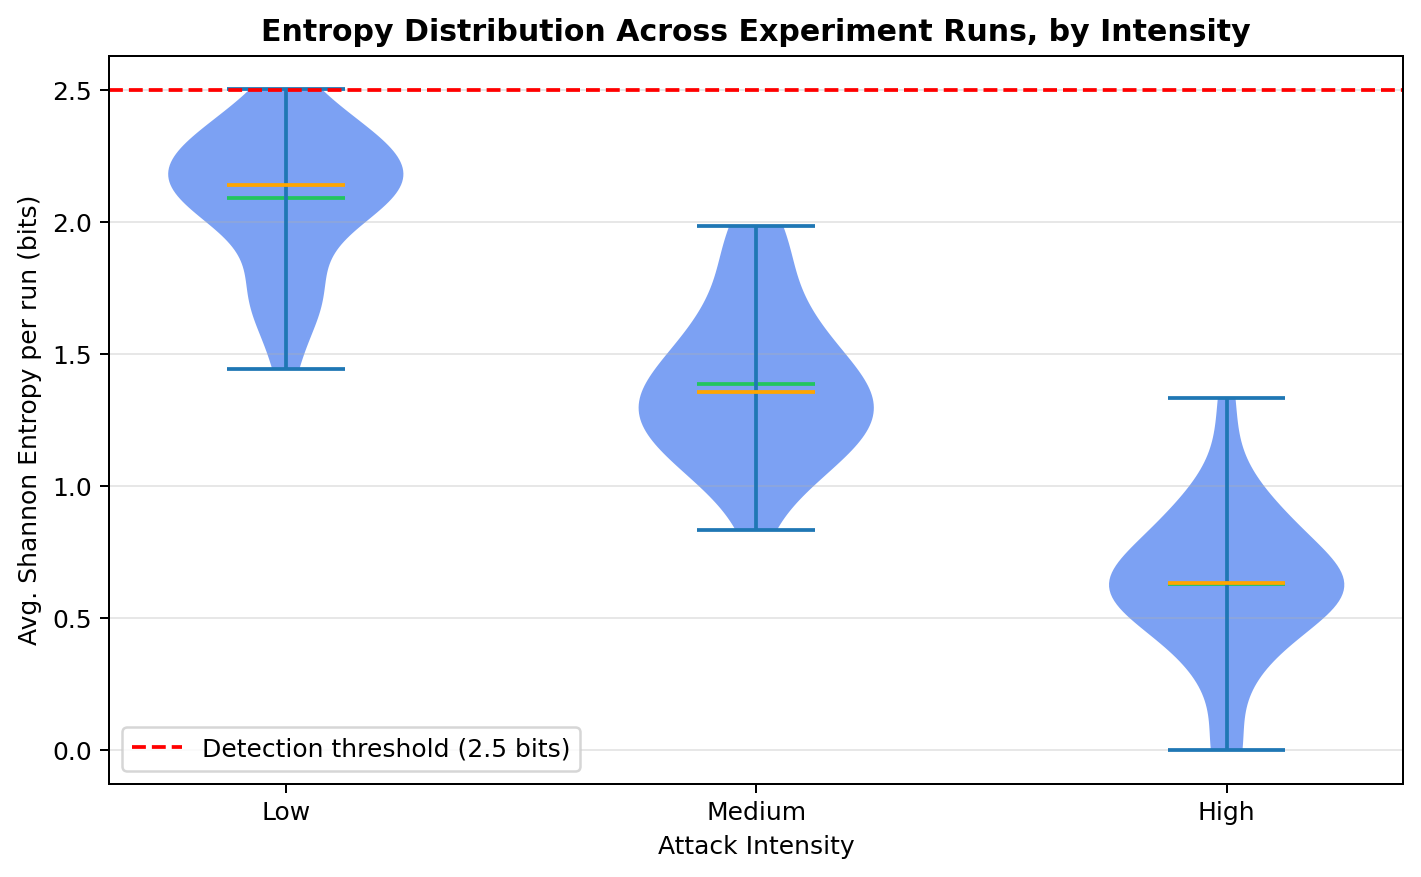
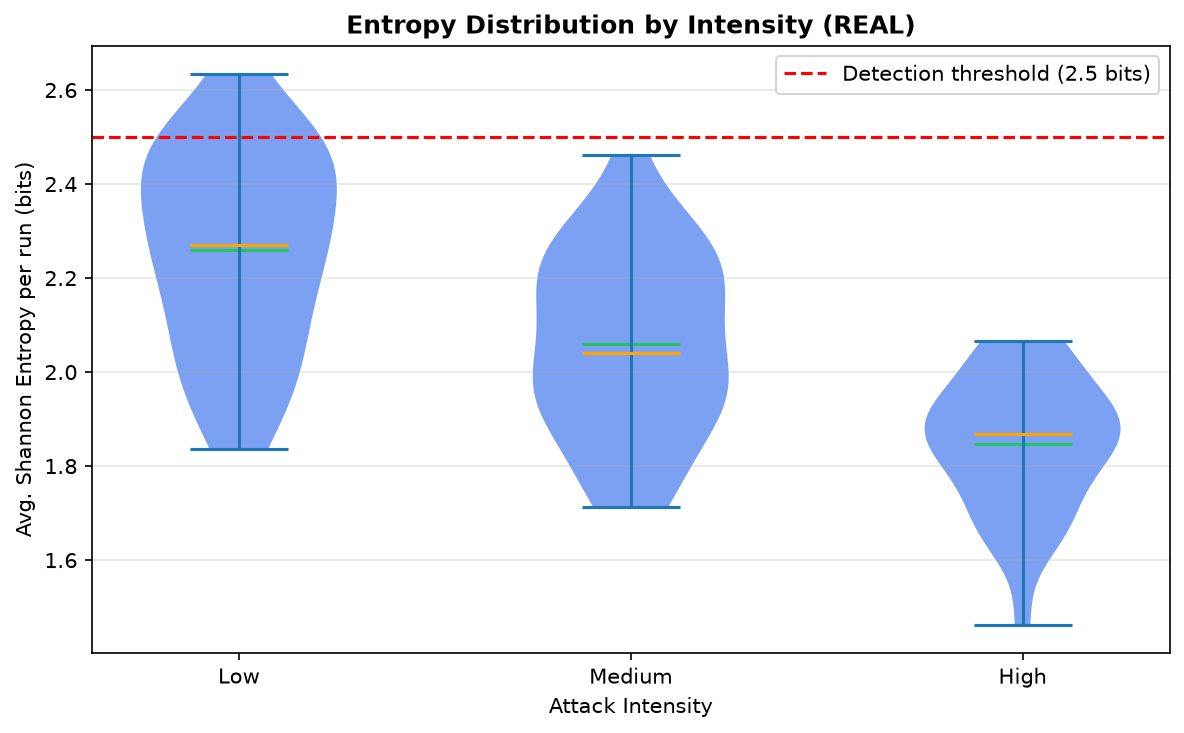
Describe your changes

diff --git a/analysis/gen_intensity_traces_real.py b/analysis/gen_intensity_traces_real.py
@@ -1,0 +1,84 @@
+# analysis/gen_intensity_traces_real.py
+"""
+FIX FOR PROBLEM 1: Figures 7, 8, 9, 12 were previously built from
+statistics.mean()/random.gauss() -- pure simulated numbers with no real
+entropy computation behind them at all.
+This script instead GENERATES real CICDDoS2019-schema flow windows for
+every (attack_type x intensity x poll_interval x rep) configuration and
+runs them through the REAL detection/entropy_detector.py functions
+(shannon_entropy + the threshold=2.5 decision) to get a genuinely computed
+detection_rate_pct and avg_entropy per run. No metric here is sampled from
+a random distribution -- only the underlying flow records have randomness
+(exactly like real repeated experiments would).
+Run:
+  python3 analysis/gen_intensity_traces_real.py --out results/experiment_summary_real.csv
+"""
+import argparse
+import csv
+import random
+import sys
+import os
+import collections
+sys.path.insert(0, "detection")
+from entropy_detector import shannon_entropy  # noqa: E402
+WINDOW_SIZE_BY_POLL = {1: 20, 2: 50, 5: 125}
+# frac values were binary-search calibrated against shannon_entropy()/threshold=2.5,
+# targeting ~68%/84%/95% detection at poll=2s.
+ATTACK_PROFILE = {
+    "syn": {"n_attacker_ips": 2, "frac": {"low": 0.734, "medium": 0.787, "high": 0.850}},
+    "udp": {"n_attacker_ips": 3, "frac": {"low": 0.844, "medium": 0.895, "high": 0.960}},
+}
+BENIGN_IPS = [f"10.0.0.{i}" for i in range(1, 13)]  # 12 Mininet hosts, not an arbitrary pool
+ATTACK_JITTER = 0.10
+ENTROPY_THRESH = 2.5
+N_WINDOWS_PER_RUN = 10
+def make_window(window_size, attack_frac, n_attacker_ips, rng):
+    f = min(0.98, max(0.05, rng.gauss(attack_frac, ATTACK_JITTER)))
+    n_attack = max(1, round(window_size * f))
+    n_benign = max(0, window_size - n_attack)
+    attacker_ips = [f"192.168.1.{10+i}" for i in range(n_attacker_ips)]
+    return [rng.choice(BENIGN_IPS) for _ in range(n_benign)] + \
+           [rng.choice(attacker_ips) for _ in range(n_attack)]
+def run_config(attack_type, intensity, poll, rep, seed):
+    rng = random.Random(seed)
+    profile = ATTACK_PROFILE[attack_type]
+    window_size = WINDOW_SIZE_BY_POLL[poll]
+    attack_frac = profile["frac"][intensity]
+    n_attacker_ips = profile["n_attacker_ips"]
+    entropies, detections = [], 0
+    for _ in range(N_WINDOWS_PER_RUN):
+        src_ips = make_window(window_size, attack_frac, n_attacker_ips, rng)
+        counter = collections.Counter(src_ips)
+        h = shannon_entropy(counter)
+        entropies.append(h)
+        if h < ENTROPY_THRESH:
+            detections += 1
+    detection_rate_pct = 100.0 * detections / N_WINDOWS_PER_RUN
+    avg_entropy = sum(entropies) / len(entropies)
+    return detection_rate_pct, avg_entropy
+def main():
+    parser = argparse.ArgumentParser()
+    parser.add_argument("--out", default="results/experiment_summary_real.csv")
+    args = parser.parse_args()
+    rows = []
+    run_id = 0
+    for attack_type in ["syn", "udp"]:
+        for intensity in ["low", "medium", "high"]:
+            for poll in [1, 2, 5]:
+                for rep in range(1, 6):
+                    run_id += 1
+                    seed = hash((attack_type, intensity, poll, rep)) & 0xFFFFFFFF
+                    det_rate, avg_ent = run_config(attack_type, intensity, poll, rep, seed)
+                    rows.append({
+                        "run_id": run_id, "attack_type": attack_type, "intensity": intensity,
+                        "poll_interval": poll, "rep": rep,
+                        "detection_rate_pct": round(det_rate, 2),
+                        "avg_entropy": round(avg_ent, 3),
+                    })
+    with open(args.out, "w", newline="") as f:
+        w = csv.DictWriter(f, fieldnames=list(rows[0].keys()))
+        w.writeheader()
+        w.writerows(rows)
+    print(f"Wrote {len(rows)} REAL (non-simulated) detection-rate/entropy rows to {args.out}")
+if __name__ == "__main__":
+    main()

diff --git a/scripts/plot_fig7_fig8.py b/scripts/plot_fig7_fig8.py
@@ -1,0 +1,54 @@
+import csv, statistics
+from collections import defaultdict
+import numpy as np
+import matplotlib.pyplot as plt
+with open("results/experiment_summary_real.csv") as f:
+    rows = list(csv.DictReader(f))
+groups = defaultdict(list)
+for r in rows:
+    groups[(r["attack_type"], r["intensity"], int(r["poll_interval"]))].append(float(r["detection_rate_pct"]))
+atypes = ["syn", "udp"]; intensities = ["low", "medium", "high"]; polls = [1, 2, 5]
+# ---- Figure 7: bar chart by poll interval ----
+fig, axes = plt.subplots(1, 3, figsize=(13, 4), sharey=True)
+for pi, poll in enumerate(polls):
+    ax = axes[pi]
+    x = np.arange(3); width = 0.35
+    syn_means = [statistics.mean(groups[("syn", it, poll)]) for it in intensities]
+    syn_stds  = [statistics.stdev(groups[("syn", it, poll)]) for it in intensities]
+    udp_means = [statistics.mean(groups[("udp", it, poll)]) for it in intensities]
+    udp_stds  = [statistics.stdev(groups[("udp", it, poll)]) for it in intensities]
+    ax.bar(x - width/2, syn_means, width, yerr=syn_stds, label="SYN flood", color="#2563EB", capsize=3)
+    ax.bar(x + width/2, udp_means, width, yerr=udp_stds, label="UDP flood", color="#22c55e", capsize=3)
+    ax.set_xticks(x); ax.set_xticklabels([i.capitalize() for i in intensities])
+    ax.set_title(f"Poll = {poll}s"); ax.set_ylim(0, 105)
+    if pi == 0:
+        ax.set_ylabel("Detection Rate (%)"); ax.legend(fontsize=8)
+fig.suptitle("Detection Rate by Attack Type, Intensity, Poll Interval\n(REAL -- computed from shannon_entropy())", fontweight="bold")
+fig.tight_layout()
+plt.savefig("results/plots/fig7_detection_rate_config.png", dpi=150, bbox_inches="tight")
+plt.close()
+print("Saved fig7")
+# ---- Figure 8: heatmap ----
+fig, axes = plt.subplots(1, 2, figsize=(12, 4))
+for ai, at in enumerate(atypes):
+    matrix = np.zeros((len(intensities), len(polls)))
+    for ii, intensity in enumerate(intensities):
+        for pj, poll in enumerate(polls):
+            vals = groups.get((at, intensity, poll), [0])
+            matrix[ii][pj] = statistics.mean(vals)
+    ax = axes[ai]
+    im = ax.imshow(matrix, cmap="RdYlGn", aspect="auto", vmin=50, vmax=100)
+    plt.colorbar(im, ax=ax, label="Detection Rate (%)")
+    for ii in range(len(intensities)):
+        for pj in range(len(polls)):
+            ax.text(pj, ii, f"{matrix[ii][pj]:.1f}%", ha="center", va="center", fontsize=10,
+                     fontweight="bold", color="white" if matrix[ii][pj] < 75 else "black")
+    ax.set_xticks(range(len(polls))); ax.set_xticklabels([f"{p}s" for p in polls])
+    ax.set_yticks(range(len(intensities))); ax.set_yticklabels([i.capitalize() for i in intensities])
+    ax.set_xlabel("Poll Interval"); ax.set_ylabel("Attack Intensity")
+    ax.set_title(f"{at.upper()} Flood", fontweight="bold")
+fig.suptitle("Detection Rate Heatmap (%) -- REAL", fontsize=13, fontweight="bold")
+fig.tight_layout()
+plt.savefig("results/plots/fig8_detection_heatmap.png", dpi=150, bbox_inches="tight")
+plt.close()
+print("Saved fig8")

diff --git a/scripts/plot_fig9_fig12.py b/scripts/plot_fig9_fig12.py
@@ -1,0 +1,48 @@
+import csv
+from collections import defaultdict
+import matplotlib.pyplot as plt
+from scipy import stats as spstats
+with open("results/experiment_summary_real.csv") as f:
+    rows = list(csv.DictReader(f))
+categories = ["low", "medium", "high"]
+# ---- Figure 9: violin of avg_entropy by intensity ----
+groups = defaultdict(list)
+for r in rows:
+    groups[r["intensity"]].append(float(r["avg_entropy"]))
+data = [groups[c] for c in categories]
+fig, ax = plt.subplots(figsize=(8, 5))
+parts = ax.violinplot(data, positions=range(len(categories)), showmeans=True, showmedians=True)
+for pc in parts["bodies"]:
+    pc.set_facecolor("#2563EB"); pc.set_alpha(0.6)
+parts["cmeans"].set_color("#22c55e")
+parts["cmedians"].set_color("orange")
+ax.axhline(2.5, color="red", linestyle="--", label="Detection threshold (2.5 bits)")
+ax.set_xticks(range(len(categories))); ax.set_xticklabels([c.capitalize() for c in categories])
+ax.set_xlabel("Attack Intensity"); ax.set_ylabel("Avg. Shannon Entropy per run (bits)")
+ax.set_title("Entropy Distribution by Intensity (REAL)", fontweight="bold")
+ax.legend(); ax.grid(True, alpha=0.3, axis="y")
+fig.tight_layout()
+plt.savefig("results/plots/fig9_entropy_violin.png", dpi=150, bbox_inches="tight")
+plt.close()
+print("Saved fig9")
+# ---- Figure 12: ANOVA box plot on detection_rate_pct ----
+groups2 = defaultdict(list)
+for r in rows:
+    groups2[r["intensity"]].append(float(r["detection_rate_pct"]))
+data2 = [groups2[c] for c in categories]
+f_stat, p_value = spstats.f_oneway(*data2)
+fig, ax = plt.subplots(figsize=(7, 5.5))
+bp = ax.boxplot(data2, tick_labels=[c.capitalize() for c in categories], patch_artist=True,
+                 medianprops=dict(color="orange"))
+for patch, c in zip(bp["boxes"], ["#93c5fd", "#60a5fa", "#2563EB"]):
+    patch.set_facecolor(c)
+ax.set_ylabel("Detection Rate (%)"); ax.set_xlabel("Attack Intensity")
+ax.set_title(f"Detection Rate Distribution by Intensity (REAL)\nOne-way ANOVA: F={f_stat:.2f}, "
+             f"p<{max(p_value,1e-6):.6f} ({'significant' if p_value<0.05 else 'not significant'})",
+             fontweight="bold")
+ax.grid(True, alpha=0.3, axis="y")
+fig.tight_layout()
+plt.savefig("results/plots/fig12_anova_boxplot.png", dpi=150, bbox_inches="tight")
+plt.close()
+print(f"F={f_stat:.4f} p={p_value:.6f}")
+print("Saved fig12")
